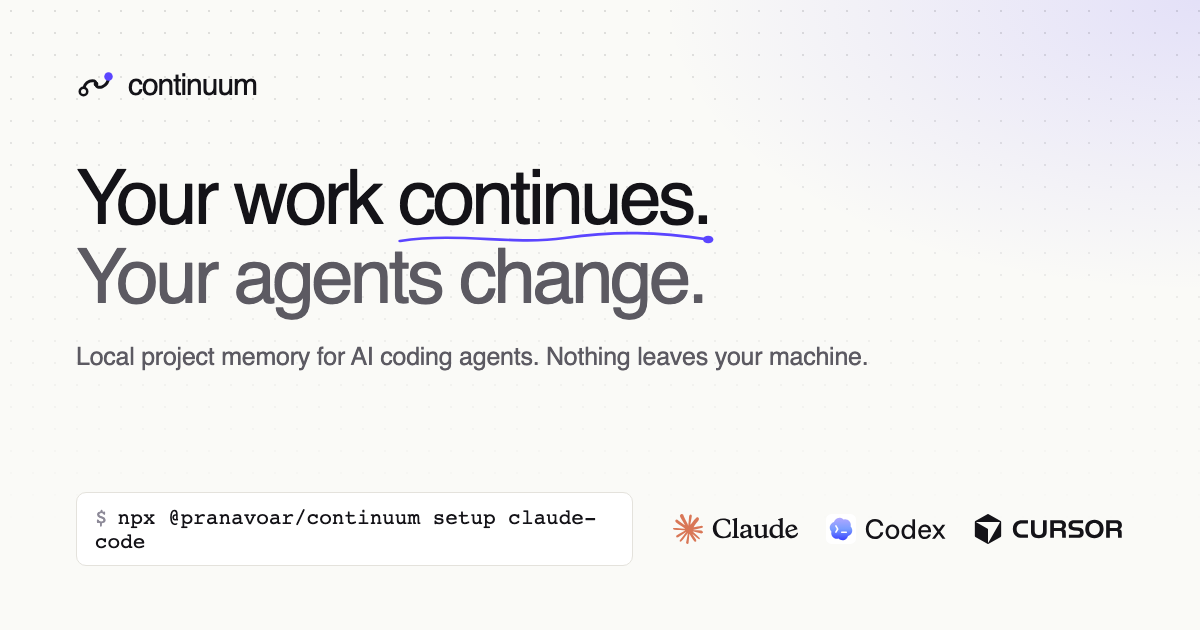
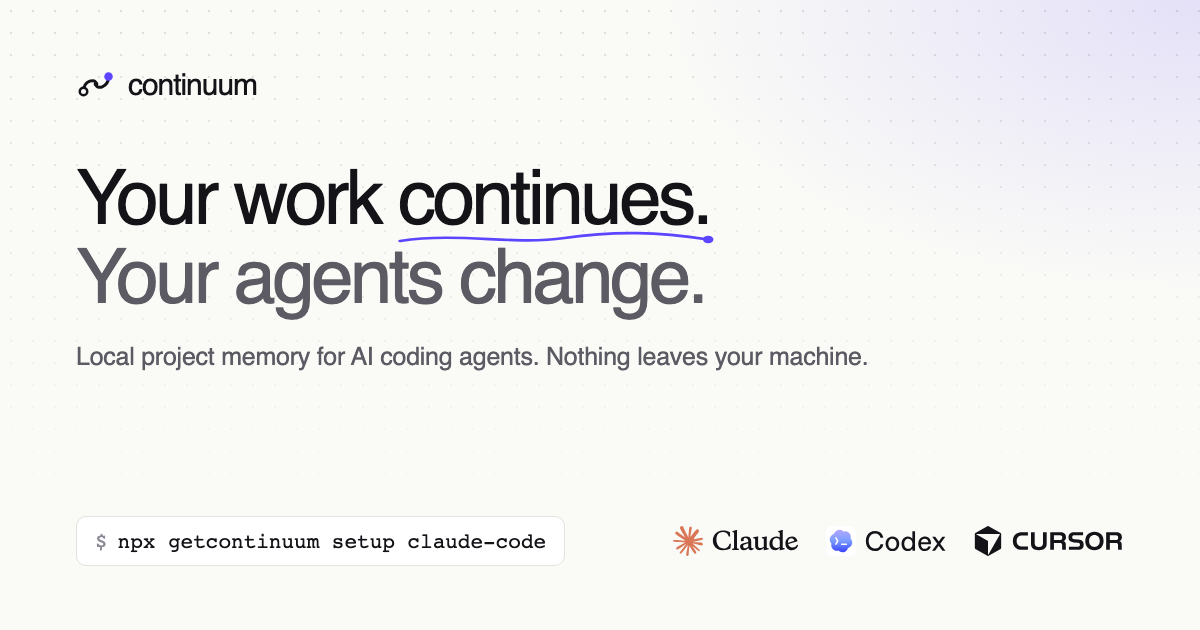
chore: rename the package to getcontinuum (0.1.1)
npm does not rename packages, so Continuum is published again as
getcontinuum: npx getcontinuum setup claude-code. The installed command is
still continuum.

- bundle, release workflow, plugin (regenerated, pinned to 0.1.1), site,
  docs, FAQ, README, share image and demo-video scripts use getcontinuum
- fix: setup recognizes its own hooks and MCP server under getcontinuum as
  well as the old @pranavoar/continuum. Before, re-running setup claude-code
  refused ('a continuum server that Continuum did not write') and setup codex
  added a duplicate hook; tested for both names
- capture.mjs strips any version from on-screen commands, not only @0.1.0
- CHANGELOG 0.1.1: the rename and the fixes since 0.1.0

Changed region(s): [[0.0617, 0.8143, 0.4933, 0.8746], [0.555, 0.8143, 0.9558, 0.8746]]

diff --git a/packages/claude-code/src/__tests__/plugin.test.ts b/packages/claude-code/src/__tests__/plugin.test.ts
@@ -13,7 +13,7 @@ describe('the Claude Code plugin', () => {
     const version = read('packages/cli/package.json').version
     const sandbox = createSandbox({ 'a.txt': 'a' })
     try {
-      await setupClaudeCode(sandbox.root, { command: 'npx', args: ['-y', `@pranavoar/continuum@${version}`], portable: true })
+      await setupClaudeCode(sandbox.root, { command: 'npx', args: ['-y', `getcontinuum@${version}`], portable: true })
       const settings = JSON.parse(readFileSync(join(sandbox.root, '.claude/settings.local.json'), 'utf8'))
       expect(read('plugin/hooks/hooks.json')).toEqual({ hooks: guardedPluginHooks(settings.hooks) })
       expect(read('plugin/.mcp.json')).toEqual(JSON.parse(readFileSync(join(sandbox.root, '.mcp.json'), 'utf8')))
@@ -65,7 +65,7 @@ describe('plugin hooks outside Continuum repositories', () => {
     chmodSync(join(bin, 'npx'), 0o755)
     try {
       const output = execFileSync(handler.command, handler.args, { cwd: repo.root, env: { ...process.env, CLAUDE_PROJECT_DIR: repo.root, PATH: `${bin}:/usr/bin:/bin` }, input: '{"hook_event_name":"SessionStart"}', encoding: 'utf8' })
-      expect(output).toBe(`args: -y @pranavoar/continuum@${read('packages/cli/package.json').version} ingest\n{"hook_event_name":"SessionStart"}`)
+      expect(output).toBe(`args: -y getcontinuum@${read('packages/cli/package.json').version} ingest\n{"hook_event_name":"SessionStart"}`)
     } finally {
       repo.cleanup()
       rmSync(bin, { recursive: true, force: true })

diff --git a/apps/web/e2e/journeys.spec.ts b/apps/web/e2e/journeys.spec.ts
@@ -6,8 +6,8 @@ test('landing page keeps its design, shows the demo video and the install guide,
   await expect(page.getByRole('heading', { name: 'Your code stays. Your context disappears.' })).toBeVisible()
   await expect(page.locator('#demo video')).toHaveAttribute('src', '/demo/continuum-demo.mp4')
   const guide = page.locator('#get-started')
-  await expect(guide.getByText('npx @pranavoar/continuum setup claude-code')).toBeVisible()
-  await expect(guide.getByText('npx @pranavoar/continuum serve')).toBeVisible()
+  await expect(guide.getByText('npx getcontinuum setup claude-code')).toBeVisible()
+  await expect(guide.getByText('npx getcontinuum serve')).toBeVisible()
   // Every call to action stays on the page; nothing leads into a demo dashboard or to GitHub.
   await page.getByRole('link', { name: 'Open dashboard' }).first().click()
   await expect(page).toHaveURL(/#get-started$/)
@@ -20,7 +20,7 @@ test('landing page copies the install command', async ({ page, context }) => {
   await page.goto('/')
   await page.getByRole('button', { name: /^Copy: npx/ }).click()
   await expect(page.getByText('Install command copied')).toBeVisible()
-  expect(await page.evaluate(() => navigator.clipboard.readText())).toBe('npx @pranavoar/continuum setup claude-code')
+  expect(await page.evaluate(() => navigator.clipboard.readText())).toBe('npx getcontinuum setup claude-code')
 })
 
 test('overview shows coherent summary values and opens a project', async ({ page }) => {

diff --git a/packages/claude-code/src/__tests__/codexSetup.test.ts b/packages/claude-code/src/__tests__/codexSetup.test.ts
@@ -6,7 +6,7 @@ import { CODEX_CONFIG_FILE, CODEX_HOOKS_FILE, removeCodexSetup, setupCodex } fro
 import { SetupError } from '../setup'
 
 const CHECKOUT = { command: '/usr/local/bin/node', args: ['--import', 'file:///x/tsx/loader.mjs', '/x/my continuum/packages/cli/src/bin.ts'], portable: false }
-const NPX = { command: 'npx', args: ['-y', '@pranavoar/continuum@0.1.0'], portable: true }
+const NPX = { command: 'npx', args: ['-y', 'getcontinuum@0.1.0'], portable: true }
 const sandboxes: Sandbox[] = []
 afterEach(() => {
   for (const repo of sandboxes.splice(0)) repo.cleanup()
@@ -47,7 +47,7 @@ describe('setupCodex', () => {
     const { hooks } = JSON.parse(read(root, CODEX_HOOKS_FILE))
     expect(hooks.PostToolUse).toHaveLength(2)
     expect(hooks.PostToolUse[0]).toEqual({ matcher: 'Bash', hooks: [theirs] })
-    expect(hooks.SessionStart[0].hooks[0].command).toBe('npx -y @pranavoar/continuum@0.1.0 ingest --agent codex')
+    expect(hooks.SessionStart[0].hooks[0].command).toBe('npx -y getcontinuum@0.1.0 ingest --agent codex')
     const config = read(root, CODEX_CONFIG_FILE)
     expect(config.match(/\[mcp_servers\.continuum\]/g)).toHaveLength(1)
     expect(config).toContain('model = "gpt-5.6-luna"')

diff --git a/scripts/plugin.ts b/scripts/plugin.ts
@@ -8,7 +8,7 @@ import { createSandbox } from '../packages/capture/src/testing'
 
 const ROOT = join(import.meta.dirname, '..')
 const version = JSON.parse(readFileSync(join(ROOT, 'packages/cli/package.json'), 'utf8')).version as string
-const invocation = { command: 'npx', args: ['-y', `@pranavoar/continuum@${version}`], portable: true }
+const invocation = { command: 'npx', args: ['-y', `getcontinuum@${version}`], portable: true }
 
 /** The hooks and MCP server setup would write for the published package. */
 export async function pluginFiles(): Promise<{ hooks: unknown; mcp: unknown; version: string }> {
@@ -30,5 +30,5 @@ if (import.meta.main ?? process.argv[1]?.endsWith('plugin.ts')) {
   write('plugin/.mcp.json', mcp)
   const manifestPath = join(ROOT, 'plugin/.claude-plugin/plugin.json')
   write('plugin/.claude-plugin/plugin.json', { ...JSON.parse(readFileSync(manifestPath, 'utf8')), version })
-  console.log(`Plugin written for @pranavoar/continuum@${version}`)
+  console.log(`Plugin written for getcontinuum@${version}`)
 }

diff --git a/packages/claude-code/src/__tests__/setup.test.ts b/packages/claude-code/src/__tests__/setup.test.ts
@@ -125,6 +125,17 @@ describe('setupClaudeCode with existing team configuration', () => {
     await setupClaudeCode(root, INVOCATION)
     expect(readJson(root, HOOKS_FILE).hooks.SessionStart).toHaveLength(1)
   })
+
+  it('recognizes its own entries under every published name, getcontinuum and the old scoped one', async () => {
+    for (const name of ['getcontinuum@0.1.1', '@pranavoar/continuum@0.1.0']) {
+      const { root } = repo()
+      await setupClaudeCode(root, { command: 'npx', args: ['-y', name], portable: true })
+      // A re-run, e.g. after an upgrade, replaces its own hooks and server instead of refusing or duplicating them.
+      await setupClaudeCode(root, { command: 'npx', args: ['-y', 'getcontinuum@0.1.2'], portable: true })
+      expect(readJson(root, HOOKS_FILE).hooks.SessionStart).toHaveLength(1)
+      expect(readJson(root, MCP_FILE).mcpServers.continuum.args).toEqual(['-y', 'getcontinuum@0.1.2', 'mcp'])
+    }
+  })
 })
 
 describe('removeClaudeCodeSetup', () => {

diff --git a/packages/claude-code/src/codexSetup.ts b/packages/claude-code/src/codexSetup.ts
@@ -27,7 +27,7 @@ function shellQuote(part: string): string {
 const commandLine = (invocation: Invocation, ...rest: string[]) => [invocation.command, ...invocation.args, ...rest].map(shellQuote).join(' ')
 
 /** The program part of a command setup writes: this checkout's bin.ts, the release bundle, or the npm package. */
-const CONTINUUM_PROGRAM = /(^|[\\/'])packages[\\/]cli[\\/]src[\\/]bin\.ts'?$|(^|[\\/'])continuum\.js'?$|(^|[\\/@'])continuum(@[\w.-]+)?'?$/
+const CONTINUUM_PROGRAM = /(^|[\\/'])packages[\\/]cli[\\/]src[\\/]bin\.ts'?$|(^|[\\/'])continuum\.js'?$|(^|[\\/@'])(get)?continuum(@[\w.-]+)?'?$/
 
 /** Ours: a command hook running Continuum's `ingest --agent codex` through a program setup would write. */
 function isOurHandler(handler: unknown): boolean {

diff --git a/packages/claude-code/src/setup.ts b/packages/claude-code/src/setup.ts
@@ -17,9 +17,9 @@ const SESSION_END_TIMEOUT_S = 10
 const BACKGROUND_TIMEOUT_S = 30
 /**
  * A path or package that is the Continuum CLI: this checkout's bin.ts, a
- * `continuum` binary, the release bundle, or an npm package named continuum.
+ * `continuum` binary, the release bundle, or the npm package: getcontinuum, or a scoped `@…/continuum`.
  */
-const CONTINUUM_PROGRAM = /(^|[\\/])packages[\\/]cli[\\/]src[\\/]bin\.ts$|(^|[\\/@])continuum(@[\w.-]+)?$|(^|[\\/])continuum\.js$/
+const CONTINUUM_PROGRAM = /(^|[\\/])packages[\\/]cli[\\/]src[\\/]bin\.ts$|(^|[\\/@])(get)?continuum(@[\w.-]+)?$|(^|[\\/])continuum\.js$/
 
 /** How to run this CLI, e.g. `node --import tsx …/bin.ts` during development or `npx …` once published. */
 export interface Invocation {

diff --git a/packages/cli/src/__tests__/agents.test.ts b/packages/cli/src/__tests__/agents.test.ts
@@ -42,7 +42,7 @@ describe('continuum setup through npx', () => {
     const repo = sandbox()
     const io = { cwd: repo.root, out: () => {}, err: () => {}, now: () => NOW, configDir: TEST_CONFIG_DIR } as unknown as Parameters<typeof setupCommand>[0]
     // Through npx the files are portable, so they are not kept out of git and scans see them.
-    const npx = { command: 'npx', args: ['-y', '@pranavoar/continuum@0.1.0'], portable: true }
+    const npx = { command: 'npx', args: ['-y', 'getcontinuum@0.1.0'], portable: true }
     for (const target of ['claude-code', 'codex', 'cursor']) expect(await setupCommand(io, [target], npx)).toBe(0)
     const status = (await cli(repo.root, ['status'])).out
     expect(status).toContain('all recorded')

diff --git a/apps/web/src/pages/LandingPage.tsx b/apps/web/src/pages/LandingPage.tsx
@@ -64,7 +64,7 @@ function Hero() {
             rel="noreferrer"
             className="inline-flex items-center gap-2 rounded-full border border-line bg-surface py-1 pr-3 pl-1 text-[13px] text-muted hover:border-line-strong"
           >
-            <span className="rounded-full bg-accent/10 px-2 py-0.5 font-mono text-[11px] text-accent">v0.1.0</span>
+            <span className="rounded-full bg-accent/10 px-2 py-0.5 font-mono text-[11px] text-accent">v0.1.1</span>
             Now on npm: {PACKAGE_NAME}
             <ArrowRight className="size-3.5" aria-hidden />
             <span className="sr-only"> (opens in a new tab)</span>

diff --git a/apps/web/src/components/site/faqContent.ts b/apps/web/src/components/site/faqContent.ts
@@ -32,6 +32,6 @@ export const FAQ = [
   {
     question: 'How do I remove it?',
     answer:
-      '`npx @pranavoar/continuum uninstall` disconnects every agent from the repository. Add `--purge` to delete `.continuum/` as well. `continuum forget` removes specific data instead.',
+      '`npx getcontinuum uninstall` disconnects every agent from the repository. Add `--purge` to delete `.continuum/` as well. `continuum forget` removes specific data instead.',
   },
 ] as const

diff --git a/apps/web/src/components/site/siteContent.ts b/apps/web/src/components/site/siteContent.ts
@@ -1,6 +1,6 @@
 /** What the public website says about installing and running Continuum, in one place. */
 
-export const PACKAGE_NAME = '@pranavoar/continuum'
+export const PACKAGE_NAME = 'getcontinuum'
 export const INSTALL_COMMAND = `npx ${PACKAGE_NAME} setup claude-code`
 export const DASHBOARD_COMMAND = `npx ${PACKAGE_NAME} serve`
 export const NPM_URL = `https://www.npmjs.com/package/${PACKAGE_NAME}`

diff --git a/apps/web/src/site/docs/agents.md b/apps/web/src/site/docs/agents.md
@@ -5,7 +5,7 @@ Continuum connects to each agent per repository. It never writes to your global 
 ## Claude Code
 
 ```bash
-npx @pranavoar/continuum setup claude-code
+npx getcontinuum setup claude-code
 ```
 
 Writes the hooks to `.claude/settings.local.json` and the MCP server to `.mcp.json`. Start Claude Code in the repository and approve the `continuum` server. Every session then starts with a briefing, and edits, test runs, tasks and commits are recorded as you work.
@@ -15,7 +15,7 @@ You can install the **Claude Code plugin** instead, which brings the hooks, the 
 ## Codex
 
 ```bash
-npx @pranavoar/continuum setup codex
+npx getcontinuum setup codex
 ```
 
 Writes `.codex/hooks.json` and a marked block in `.codex/config.toml`, never `~/.codex`. Codex loads them once you **trust the project** when it asks; then run **`/hooks`** in Codex and trust Continuum's hooks.
@@ -29,7 +29,7 @@ Codex does not tell hooks a command's exit code, so its test runs are not record
 ## Cursor
 
 ```bash
-npx @pranavoar/continuum setup cursor
+npx getcontinuum setup cursor
 ```
 
 Adds the `continuum` MCP server to `.cursor/mcp.json` and an always-applied rule, `.cursor/rules/continuum.mdc`. Enable the server in Cursor's **Settings → MCP**. The rule asks Cursor's agent to read the handoff first, keep the task current, and record decisions.
@@ -39,10 +39,10 @@ Cursor has no hooks Continuum uses, so to capture its edits, open a session as d
 ## Any other agent or chat
 
 ```bash
-npx @pranavoar/continuum session start --agent cursor   # prints a briefing to paste in
-npx @pranavoar/continuum start                          # in another terminal: records file changes
-npx @pranavoar/continuum session note "Parser done; tests next"
-npx @pranavoar/continuum session end --summary "Parser rewritten, tests pass"
+npx getcontinuum session start --agent cursor   # prints a briefing to paste in
+npx getcontinuum start                          # in another terminal: records file changes
+npx getcontinuum session note "Parser done; tests next"
+npx getcontinuum session end --summary "Parser rewritten, tests pass"
 ```
 
 While a session is open, file changes are attributed to it. Notes and summaries are labelled agent-reported, like an agent's own messages.
